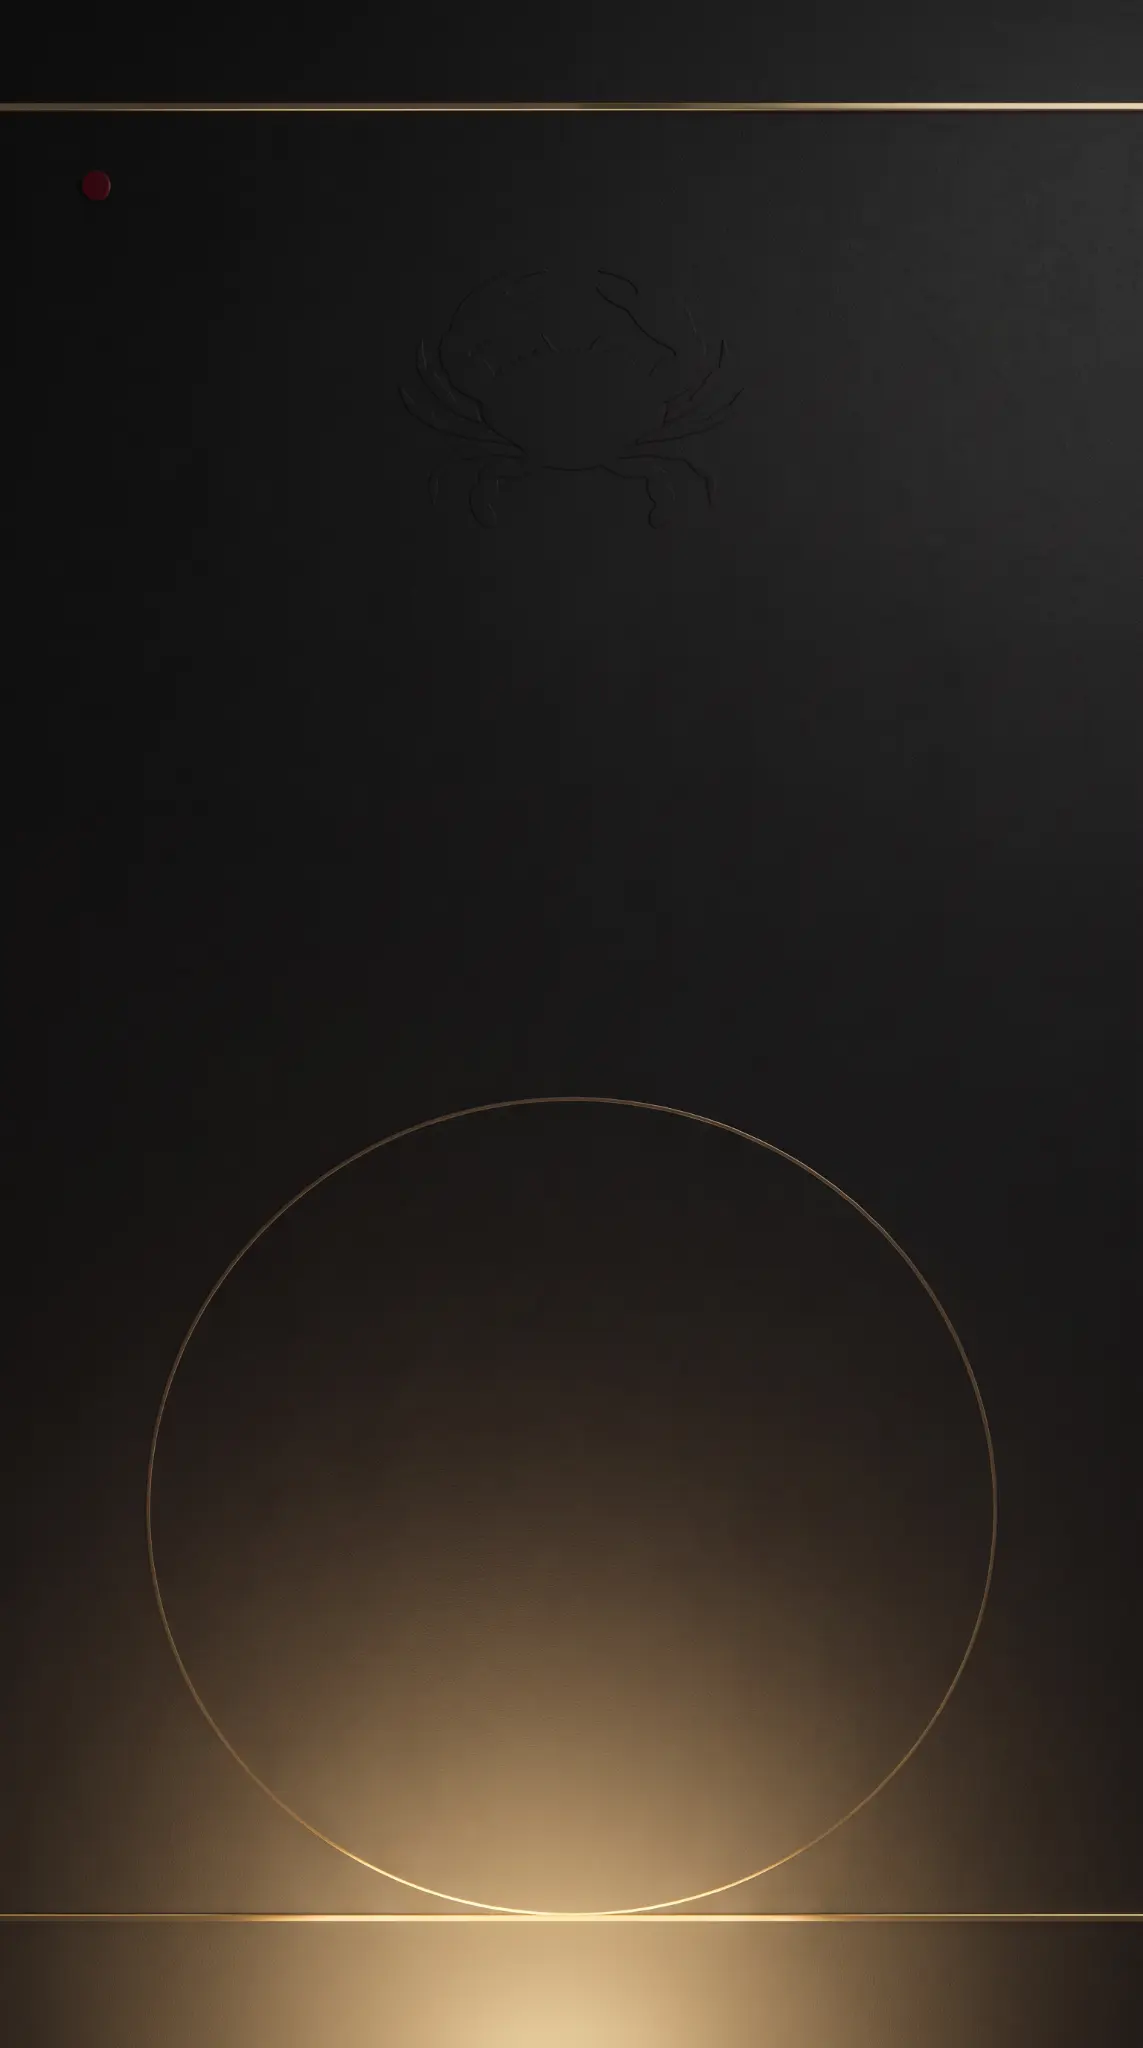
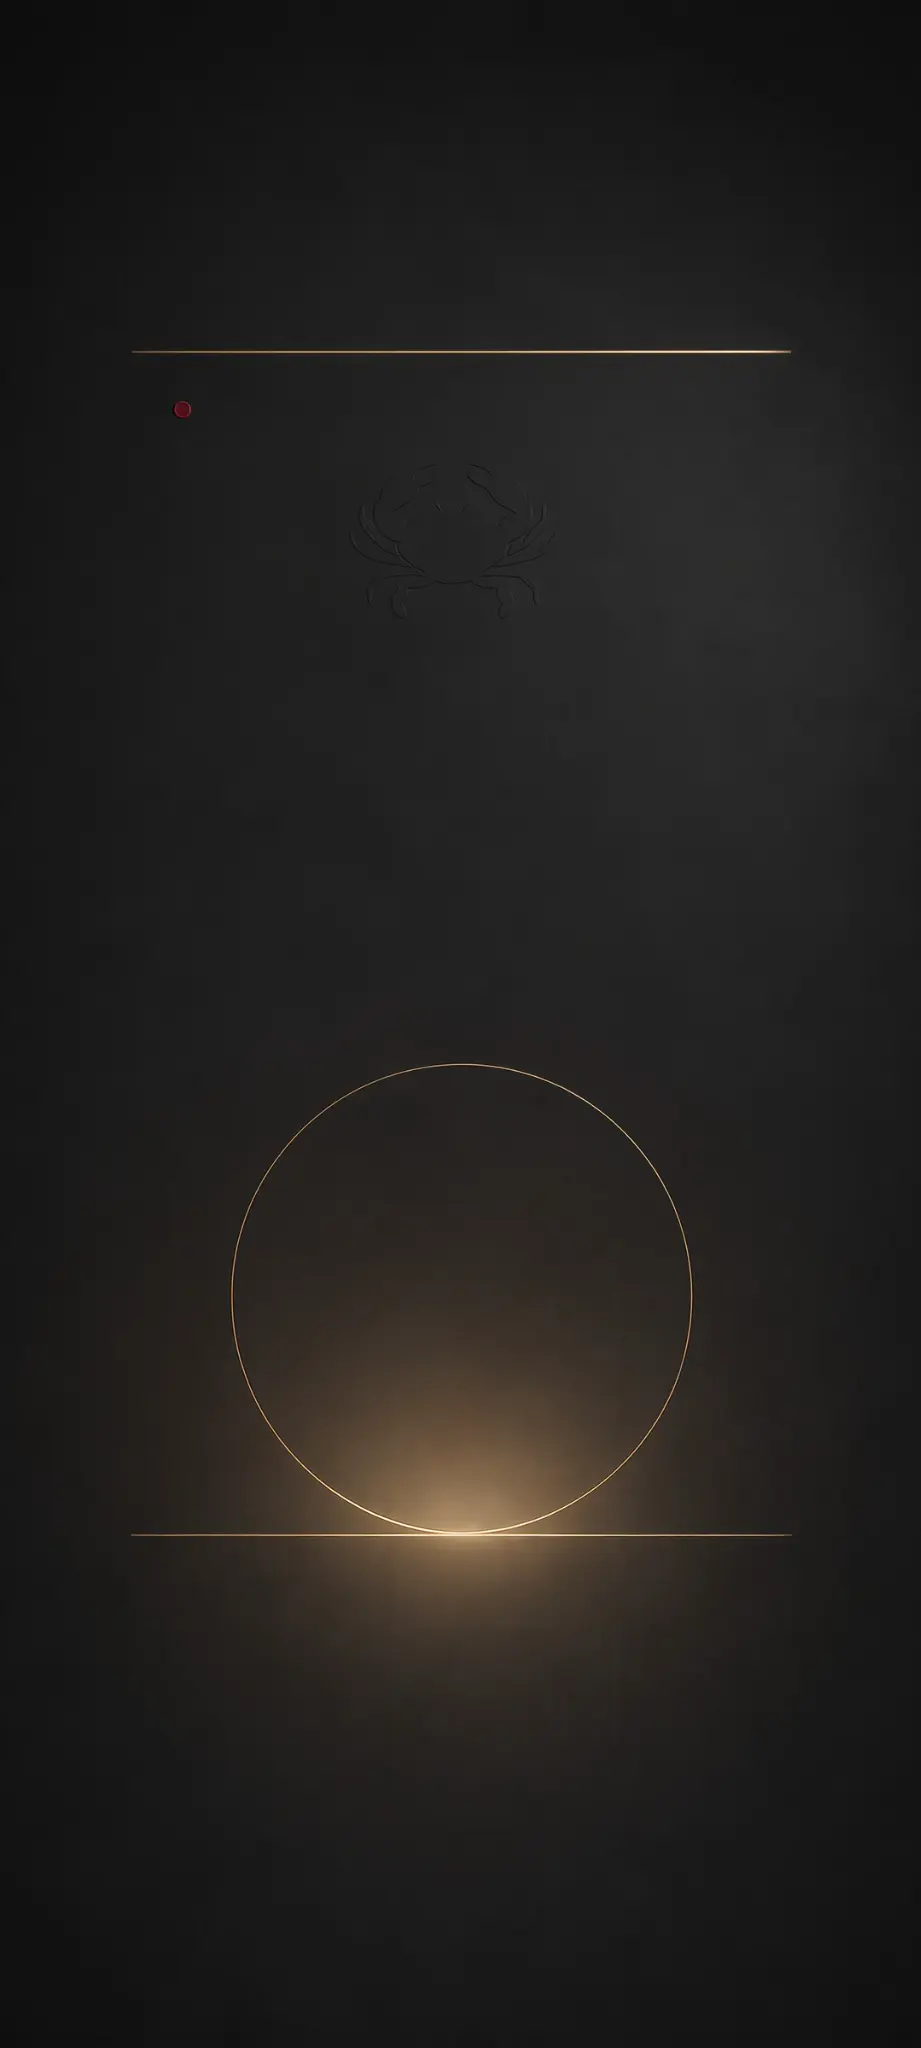
fix: keep background continuous on scroll

diff --git a/src/styles.css b/src/styles.css
@@ -148,16 +148,23 @@
   }
 
   body {
+    position: relative;
+    isolation: isolate;
+    min-height: 100vh;
     background-color: #010302;
-    background-image: url('/kani-background-desktop.webp');
-    background-position: center top;
-    background-repeat: no-repeat;
-    background-size: cover;
-    background-attachment: fixed;
     color: var(--color-foreground);
     font-family: var(--font-sans);
     letter-spacing: 0;
     -webkit-font-smoothing: antialiased;
+  }
+
+  body::before {
+    content: '';
+    position: fixed;
+    inset: 0;
+    z-index: -1;
+    pointer-events: none;
+    background: url('/kani-background-desktop.webp') center top / cover no-repeat;
   }
 }
 
@@ -367,7 +374,7 @@ input[type=date], input[type=time] { color-scheme: dark; }
  .hero-caption { display: none; }
 }
 @media(max-width:767px) {
- body { background-image: url('/kani-background-mobile.webp'); }
+ body::before { background-image: url('/kani-background-mobile.webp'); }
  .site-container,.site-header > div { width: calc(100% - 40px); }
  .site-footer > .site-container { width: calc(100% - 40px); padding-inline: 0; }
  .site-header { height: 80px; }
